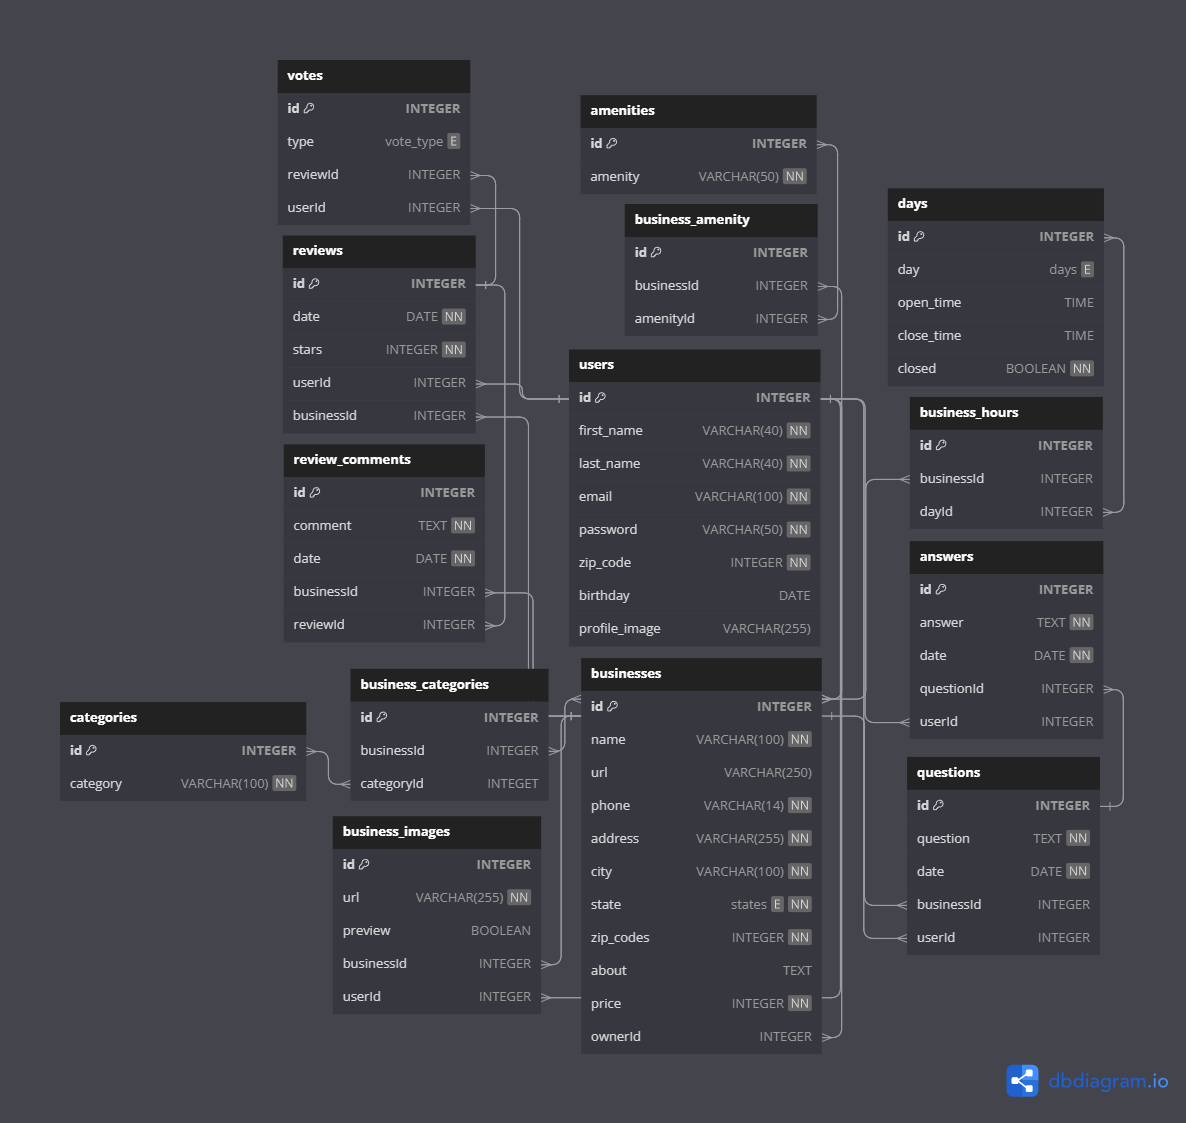
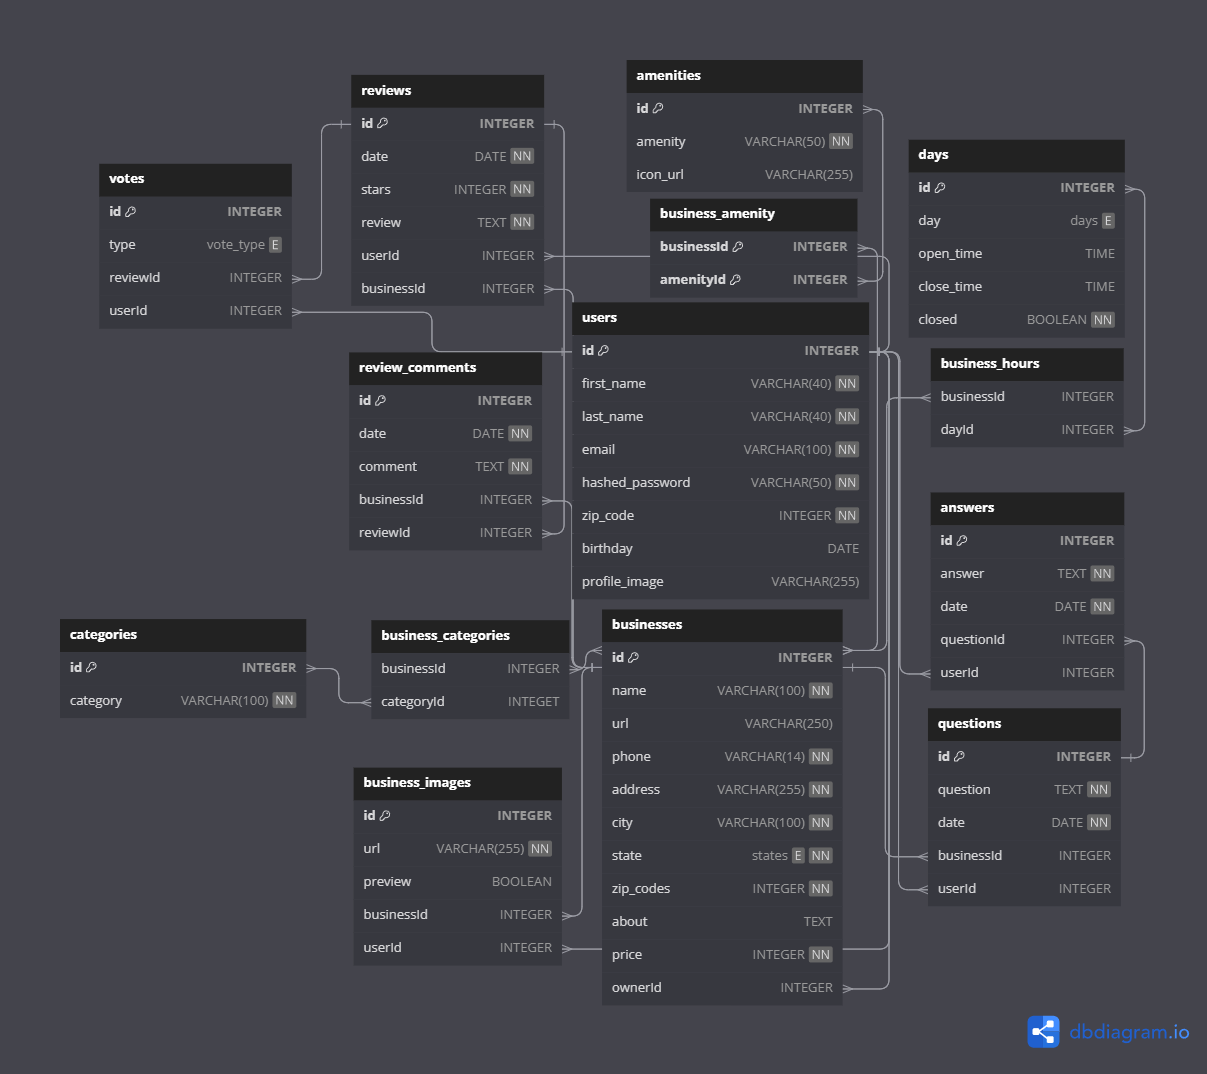
updated database schema docs

Changed region(s): [[0.0312, 0.0307, 0.9359, 0.9525], [0.8423, 0.9218, 0.9983, 0.9832], [0.0936, 0.2458, 0.1248, 0.3073]]

diff --git a/documentation/database_schema.md b/documentation/database_schema.md
@@ -4,16 +4,16 @@
 
 ## `users`
 
-| column name   | data type    | details                               |
-|---------------|--------------|---------------------------------------|
-| id            | integer      | not null, primary key, auto increment |
-| first_name    | varchar(40)  | not null                              |
-| last_name     | varchar(40)  | not null                              |
-| email         | varchar(100) | not null                              |
-| password      | varchar(50)  | not null, unique                      |
-| zip_code      | integer      | not null                              |
-| birthday      | date         |                                       |
-| profile_image | varchar(255) |                                       |
+| column name     | data type    | details                               |
+|-----------------|--------------|---------------------------------------|
+| id              | integer      | not null, primary key, auto increment |
+| first_name      | varchar(40)  | not null                              |
+| last_name       | varchar(40)  | not null                              |
+| email           | varchar(100) | not null, unique                      |
+| hashed_password | varchar(50)  | not null                              |
+| zip_code        | integer      | not null                              |
+| birthday        | date         |                                       |
+| profile_image   | varchar(255) |                                       |
 
 ## `businesses`
 
@@ -39,7 +39,7 @@
 | url         | varchar(250) | not null                              |
 | preview     | boolean      | not null, default = false             |
 | businessId  | integer      | references: businesses.id             |
-| userId      | integer      | references: users.id                  |
+| ownerId     | integer      | references: users.id                  |
 
 ## `amenities`
 
@@ -66,8 +66,6 @@
 | review      | text      | not null,                             |
 | userId      | integer   | references: users.id                  |
 | businessId  | integer   | references: businesses.id             |
-
-Indexes: (userId, businessId), unique
 
 ## `days`
 
@@ -96,8 +94,6 @@ Indexes: (userId, businessId), unique
 | businessId  | integer   | references: businesses.id             |
 | userId      | integer   | references: users.id                  |
 
-Indexes: (businessId, userId), unique
-
 ## `answers`
 
 | column name | data type | details                               |
@@ -119,13 +115,12 @@ Indexes: (questionId, userId), unique
 | reviewId    | integer   | references: reviews.id                |
 | userId      | integer   | references: users. id                 |
 
-Indexes: (reviewId, userId) unique
-
 ## `review_comments`
 
 | column name | data type | details                               |
 |-------------|-----------|---------------------------------------|
 | id          | integer   | not null, primary key, auto increment |
+| date        | date      | not null                              |
 | comment     | text      | not null                              |
 | businessId  | integer   | references: businesses.id             |
 | reviewId    | integer   | references: reviews.id                |
